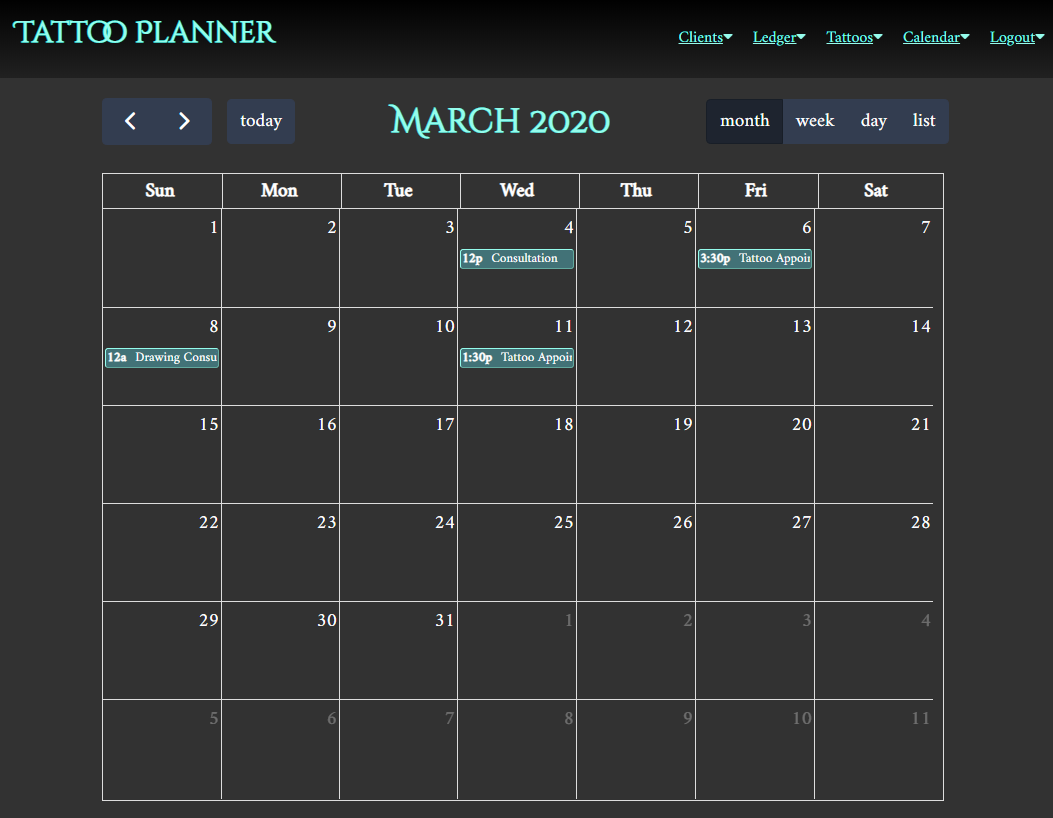
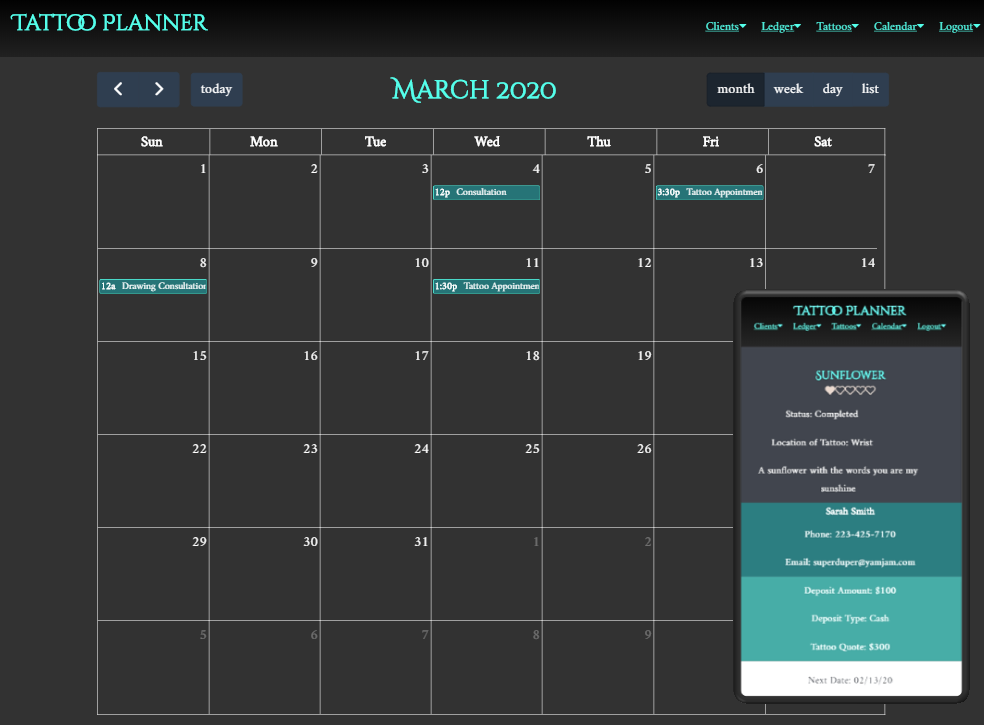
updates to styling

diff --git a/src/routes/Tattoo/Tattoo.css b/src/routes/Tattoo/Tattoo.css
@@ -1,7 +1,6 @@
 .tattoo-desc {
   max-width: 380px;
-  text-align: left;
-  margin-left: 2%;
+  text-align: center;
 }
 
 .tattoo-info {
@@ -9,13 +8,14 @@
   margin: 0;
   height: 450px;
   max-width: 700px;
+  text-align: center;
 }
 .tattoo-info h2 {
   padding-top: 40px;
   margin-top: 0;
-  margin-left: 18%;
   width: 150px;
   font-size: 110%;
+  margin: auto;
 }
 .details {
   width: 250px;
@@ -27,10 +27,12 @@
   text-align: center;
   background-color: #0d7377;
   width: 100%;
+  box-shadow: 0 4px 8px 0 rgba(0, 0, 0, 0.2), 0 6px 20px 0 rgba(0, 0, 0, 0.19);
 }
 .client-ledger {
   background-color: #29a19c;
   width: 100%;
+  box-shadow: 0 4px 8px 0 rgba(0, 0, 0, 0.2), 0 6px 20px 0 rgba(0, 0, 0, 0.19);
   display: inline-block;
 }
 
@@ -40,16 +42,15 @@
   color: #222831;
   padding: 10px;
   margin: auto;
+  box-shadow: 0 4px 8px 0 rgba(0, 0, 0, 0.2), 0 6px 20px 0 rgba(0, 0, 0, 0.19);
 }
 
 .references {
   width: 100%;
-  margin-top: 70px;
+  margin-top: 210px;
   text-align: center;
 }
-.ClientHeartRating {
-  margin-left: 18%;
-}
+
 .rate-area-t {
   display: inline-block;
   padding: 0;
@@ -108,17 +109,37 @@
 }
 
 @media screen and (min-width: 600px) {
+  .ClientHeartRating {
+    margin-right: 42%;
+  }
+  .tattoo-desc {
+    text-align: left;
+    margin-left: 2%;
+  }
+
+  .tattoo-info h2 {
+    margin-left: 18%;
+  }
+  .details {
+    margin-left: 8%;
+    margin-top: 0;
+  }
+  .references {
+    width: 100%;
+    margin-top: 40px;
+    text-align: center;
+  }
   .client-contact {
     position: relative;
-    left: 380px;
-    bottom: 380px;
+    left: 320px;
+    bottom: 260px;
     width: 250px;
     padding: 5px;
   }
   .client-ledger {
     position: relative;
-    bottom: 120px;
-    left: 130px;
+    bottom: 80px;
+    left: 70px;
     width: 250px;
     padding: 5px;
   }
@@ -133,24 +154,31 @@
     position: relative;
     max-width: 200px;
     margin: auto;
-    bottom: 109px;
+    bottom: 90px;
     box-shadow: 0 4px 8px 0 rgba(0, 0, 0, 0.2), 0 6px 20px 0 rgba(0, 0, 0, 0.19);
+  }
+}
+@media screen and (min-width: 685px) {
+  .client-contact {
+    left: 360px;
+    bottom: 260px;
+  }
+  .client-ledger {
+    bottom: 80px;
+    left: 120px;
   }
 }
 
 @media screen and (min-width: 830px) {
   .client-contact {
-    left: 500px;
-    bottom: 350px;
+    left: 430px;
+    bottom: 260px;
   }
   .client-ledger {
-    left: 250px;
-    bottom: 120px;
+    bottom: 50px;
+    left: 180px;
   }
   .tattoo-desc {
     margin-left: 8%;
-  }
-  .next-date {
-    bottom: 200px;
   }
 }

diff --git a/src/routes/UserHome/UserHome.js b/src/routes/UserHome/UserHome.js
@@ -218,33 +218,6 @@ class UserHome extends Component {
     const clientId = e.target["client-id"].value;
     this.setClientId(clientId);
 
-    // const time = moment(e.target["event_start-add"].value);
-    // const date = moment(this.state.dateClicked);
-
-    // let dateArr = time.split(":");
-    // let hour = parseInt(dateArr[0]);
-    // let minute = parseInt(dateArr[1]);
-
-    // console.log(hour);
-    // console.log(minute);
-    // const date = this.state.dateClicked;
-    // let dateTime = date.set({
-    //   hour: hour,
-    //   minute: minute,
-    //   second: 0,
-    //   millisecond: 0
-    // });
-    // console.log(dateTime);
-    // let day = moment(date);
-    //console.log(dateTime.format("YYYY-MM-DD HH:mm"));
-    // console.log(datetime);
-    // const newdate = Date.parse(date);
-    // console.log(newdate);
-    // const utcDate1 = new Date(Date.UTC(date));
-    // console.log(utcDate1);
-    // console.log(this.state.dateClicked);
-    //console.log(`${e.target["event_start-add"].value}:00`);
-    //console.log(this.state.tattooList);
     const newEvent = {
       title: e.target["event_title-add"].value,
       description: e.target["event_desc-add"].value,
@@ -256,7 +229,7 @@ class UserHome extends Component {
       all_day: true,
       tattoo: 1 //not currently getting the tattoo id from input !! NEED TO FIX
     };
-    console.log(newEvent);
+    //  console.log(newEvent);
 
     EventApiService.postEvent(newEvent)
       .then(this.context.addEvent)

diff --git a/src/routes/Tattoo/Tattoo.js b/src/routes/Tattoo/Tattoo.js
@@ -4,6 +4,9 @@ import TattooContext from "../../contexts/TattooContext";
 import { Rating } from "../../components/Rating/Rating";
 import "./Tattoo.css";
 import TattooApiService from "../../services/tattoo-api-service";
+import ref1img from "../../img/sunflowerref.jpg";
+import ref2img from "../../img/sunflowerref2.jpg";
+import ref3img from "../../img/sunflowerref3.png";
 //import ClientApiService from "../../services/client-api-service";
 
 class Tattoo extends Component {
@@ -107,9 +110,9 @@ class Tattoo extends Component {
           </div>
         </div>*/}
         <div className="references">
-          <Tile type="reference" line1="Art Reference 1" />
-          <Tile type="reference" line1="Art Reference 2" />
-          <Tile type="reference" line1="Art Reference3" />
+          <Tile type="reference" line1="Real Sunflower" img={ref1img} />
+          <Tile type="reference" line1="Stylized Sunflower" img={ref2img} />
+          <Tile type="reference" line1="Multiple Sunflowers" img={ref3img} />
         </div>
       </div>
     );

diff --git a/src/routes/LandingPage/LandingPage.js b/src/routes/LandingPage/LandingPage.js
@@ -6,7 +6,8 @@ import financialIcon from "../../img/financial-icon.png";
 import clientIcon from "../../img/client-icon.png";
 import tattooIcon from "../../img/tattoo-icon.png";
 import calendarIcon from "../../img/calendar-icon.png";
-import coverImg from "../../img/temporary-cover-img.png";
+import coverImg from "../../img/cover-img.png";
+import mobileImg from "../../img/demo-mobile.png";
 
 class LandingPage extends Component {
   render() {
@@ -20,6 +21,7 @@ class LandingPage extends Component {
           information.
         </p>
         <img id="demo_pic" src={coverImg} alt="demo of app" />
+        {/* <img id="mobile_pic" src={mobileImg} alt="mobile demo" /> */}
         <Icon
           title="Financials"
           description="Keep track of all of the money related information you need. Track quotes, hourly rates, deposits and more"

diff --git a/src/components/Tile/Tile.js b/src/components/Tile/Tile.js
@@ -4,6 +4,7 @@ import { Link } from "react-router-dom";
 import TattooContext from "../../contexts/TattooContext";
 import TattooApiService from "../../services/tattoo-api-service";
 import { FontAwesomeIcon } from "@fortawesome/react-fontawesome";
+
 import "./Tile.css";
 
 class Tile extends Component {
@@ -45,7 +46,8 @@ class Tile extends Component {
             <FontAwesomeIcon icon="trash-alt" />{" "}
           </button>
           <div className="inner">
-            <img src="https://via.placeholder.com/250x150" alt="preview" />
+            {/* <img src="https://via.placeholder.com/250x150" alt="preview" /> */}
+            <img src={this.props.img} alt="preview" />
             <h4>{this.props.line1}</h4>
           </div>
         </div>

diff --git a/src/routes/LandingPage/LandingPage.css b/src/routes/LandingPage/LandingPage.css
@@ -15,8 +15,14 @@
   padding: 15px;
   margin: auto;
   display: block;
+  border: 5px ridge white;
+  box-shadow: 10px 10px 20px black;
 }
-
+#demo_pic::after {
+}
+#mobile_pic {
+  display: none;
+}
 /* unvisited link */
 a:link {
   color: #14ffec;
@@ -64,5 +70,21 @@ a:active {
 
   #demo_pic {
     padding-bottom: 50px;
+  }
+}
+
+@media screen and (min-width: 800px) {
+  #mobile_pic {
+    display: inline-block;
+    position: relative;
+    bottom: 500px;
+    right: 100px;
+  }
+}
+
+@media screen and (min-width: 1070px) {
+  #mobile_pic {
+    bottom: 600px;
+    left: 650px;
   }
 }

diff --git a/src/components/Tile/Tile.css b/src/components/Tile/Tile.css
@@ -7,12 +7,15 @@
   border: 5px solid #0d7377;
   border-radius: 15px;
   display: inline-flex;
-  box-shadow: 0 4px 8px 0 rgba(0, 0, 0, 0.2), 0 6px 20px 0 rgba(0, 0, 0, 0.19);
+  box-shadow: 0 8px 8px 0 rgba(0, 0, 0, 0.2), 0 8px 20px 0 rgba(0, 0, 0, 0.19);
 }
 
 .tile img {
   padding: 0;
   border-radius: 15px;
+  max-width: 250px;
+  overflow: hidden;
+  max-height: 150px;
   width: 100%;
 }
 

diff --git a/src/components/Row/Row.css b/src/components/Row/Row.css
@@ -5,9 +5,11 @@
 }
 
 .inner-row {
-  background-color: #393e46;
+  /* background-color: #393e46; */
+  background-image: linear-gradient(#393e46, #323232);
   width: 90%;
   margin: auto;
+  box-shadow: 0 5px 5px 0 rgba(0, 0, 0, 0.2), 0 6px 10px 0 rgba(0, 0, 0, 0.19);
 }
 .client-delete:hover {
   color: red;

diff --git a/src/components/Rating/Rating.css b/src/components/Rating/Rating.css
@@ -1,3 +1,3 @@
 .star-color {
-  color: #dfcdc3;
+  color: #ffd3b6;
 }
